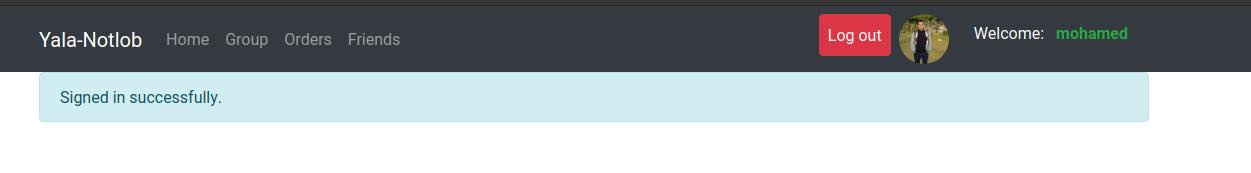
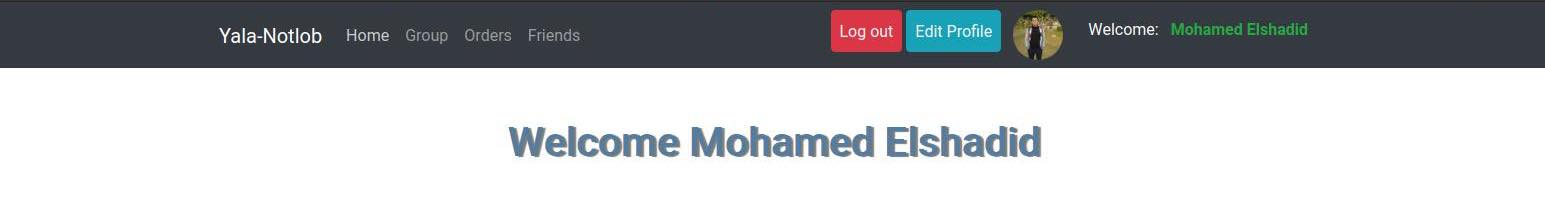
Edit Profile

diff --git a/config/routes.rb b/config/routes.rb
@@ -16,6 +16,7 @@ Rails.application.routes.draw do
   	get "signin" => 'devise/sessions#new'
   	delete "signout" => 'devise/sessions#destroy'
     get 'signup' => 'devise/registrations#new'
+    get 'edit' => 'devise/registrations#edit'
    
   end
   root 'home#index'

diff --git a/README.md b/README.md
@@ -31,6 +31,7 @@ Things you may want to cover:
 - The user can Login using facebook or google account
 - Users can't redirect to any page without login
 - User can see his name and profile image in navbar
+- User can edit his profile
 </pre>
 
 ### -Project Images
